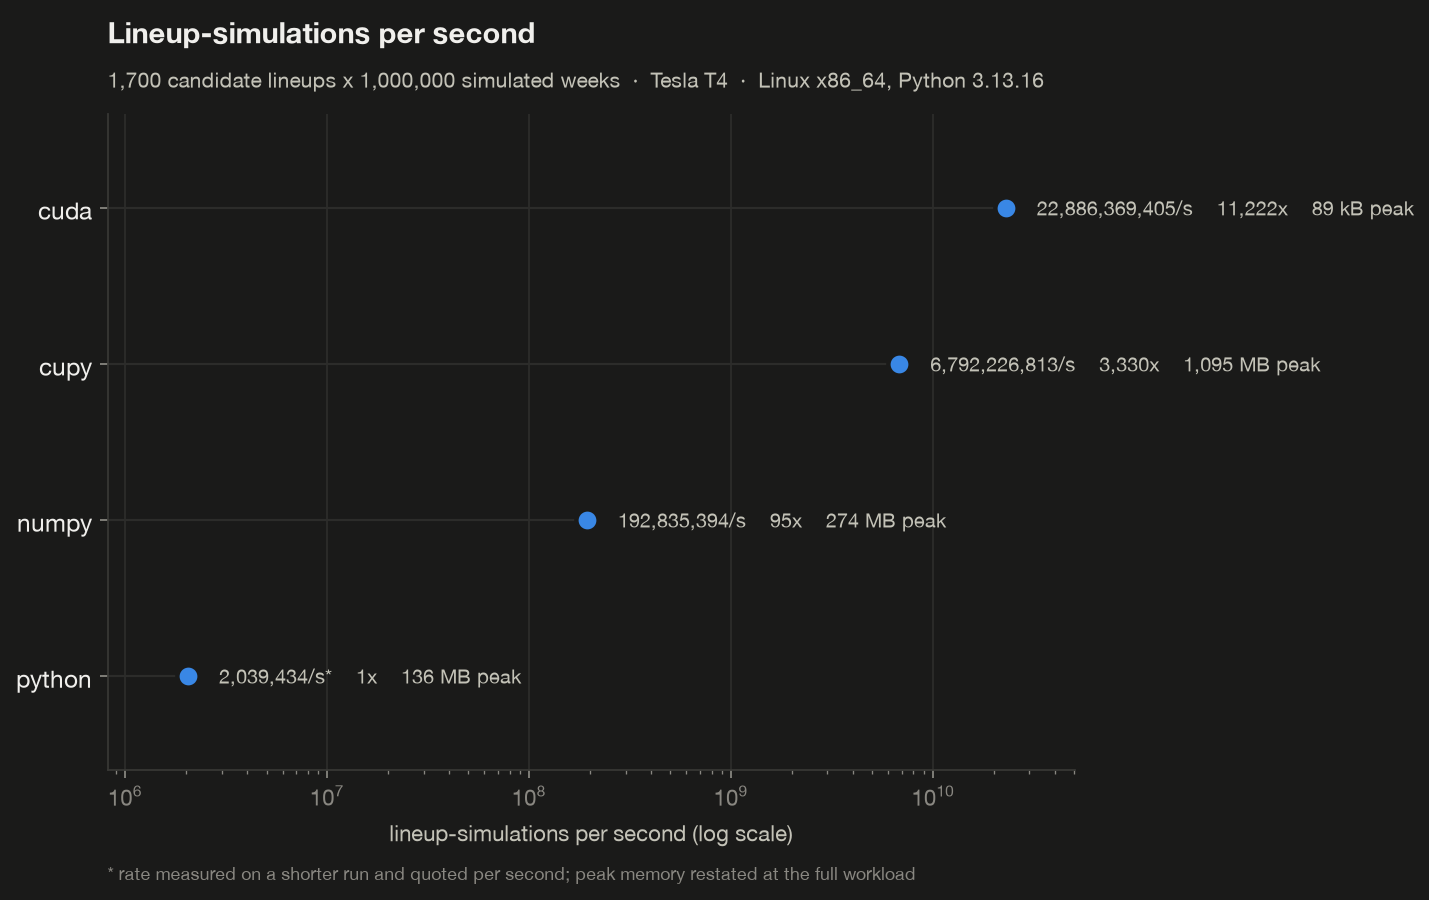
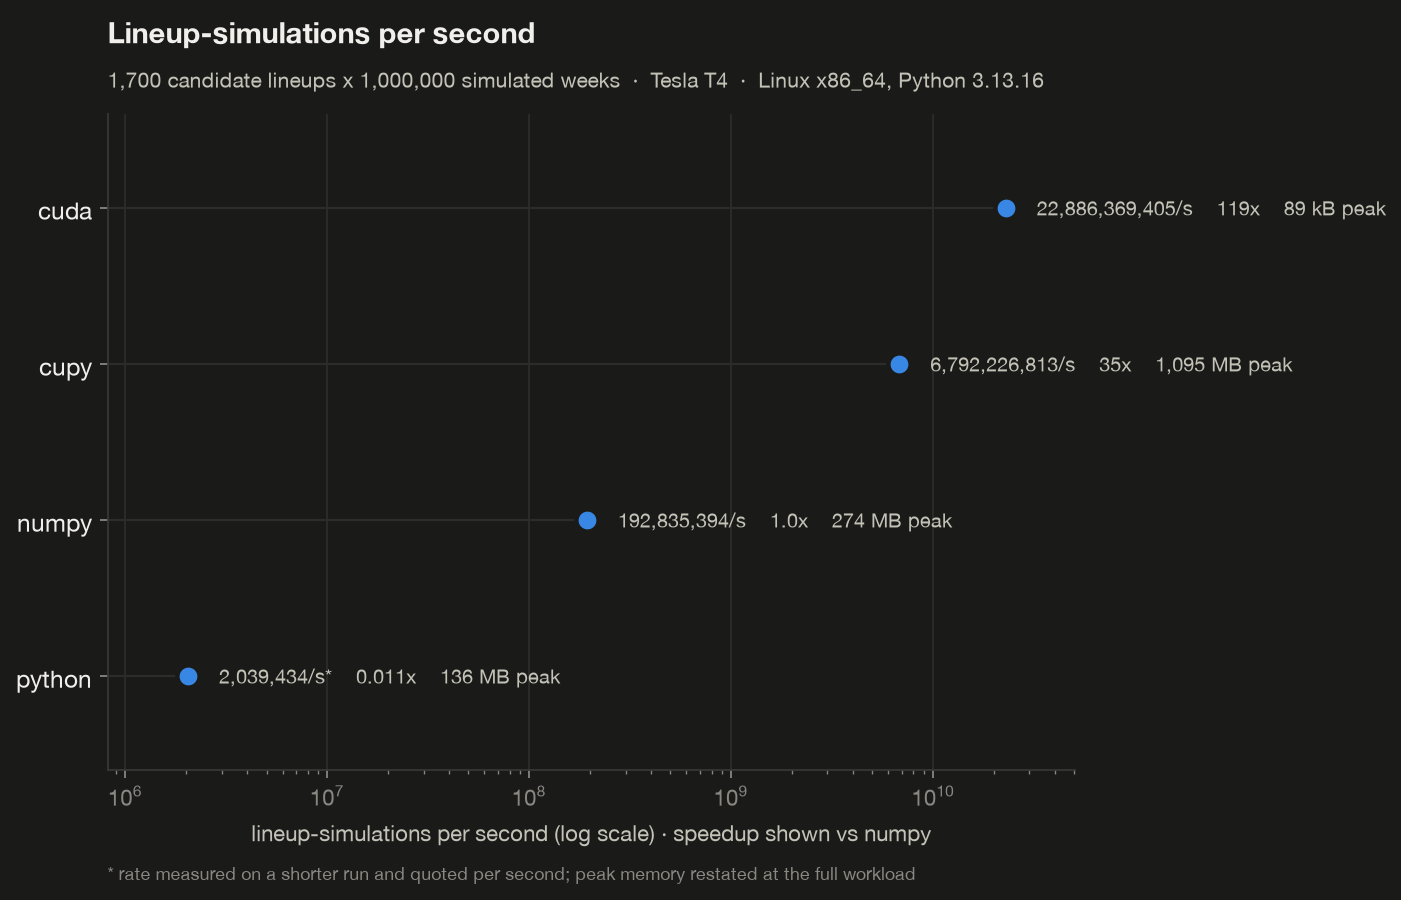
fix

diff --git a/tests/test_cuda_kernel.py b/tests/test_cuda_kernel.py
@@ -2,8 +2,21 @@
 
 ``kernels/boombust.cu`` is compiled verbatim by the system C++ compiler with the
 CUDA keywords shimmed onto host equivalents (see ``cuda_harness``), then checked
-against the NumPy reference backend. Because both sides use the same
-counter-based RNG, agreement is expected to be *exact*, not merely statistical.
+against the NumPy reference backend.
+
+What is exact, and what is not. The RNG is counter-based, so the *integer*
+stream is bit-identical on both sides by construction, and so is ``u01``. What
+follows it is not: ``logf``/``cosf``/``expf`` are different implementations in
+libm and in NumPy (and different again on a real GPU), so individual draws agree
+to a few ULP rather than to the bit. The kernel also sums k starters
+sequentially where NumPy sums all P through a BLAS matmul, and float addition is
+not associative.
+
+That only matters where a comparison sits within a few ULP of the boundary. In
+this fixture exactly 1 of 800,000 comparisons does, so win counts agree outright
+and ties -- which are an *exact float equality* and the most fragile predicate
+here -- may differ by one. Asserting bit-equality on the counts passed on macOS
+and failed on Linux; the tolerances below are set from that measurement.
 
 Caveat worth stating plainly: this exercises the kernel's indexing, shared
 memory layout, RNG and tallying, and -- with the multi-threaded launch -- its
@@ -45,13 +58,50 @@ def case():
     return mine, theirs, lineups, opp_lineup
 
 
-def test_kernel_matches_numpy_reference_exactly(case):
+def test_rng_stream_is_bit_identical(case):
+    """The part that *is* exact, on every platform: the counter-based stream.
+
+    Everything downstream inherits its determinism from here, so this is worth
+    asserting on its own rather than through the win counts.
+    """
+    from boombust.sim.rng import _mix, _u01
+
+    seed, sims = np.uint64(99), np.arange(4096, dtype=np.uint64)
+    # splitmix64 is defined on wrapping uint64 arithmetic; the overflow is the
+    # algorithm, not an accident.
+    with np.errstate(over="ignore"):
+        h = _mix(seed, np.uint64(3), sims)
+        u = _u01(h)
+    assert u.dtype == np.float32
+    # u01 is an integer-to-float conversion times an exact power of two, so it
+    # is reproducible bit for bit -- and never 0, which keeps log() safe.
+    assert (u > 0).all() and (u <= 1).all()
+    with np.errstate(over="ignore"):
+        again = _u01(_mix(seed, np.uint64(3), sims))
+    assert np.array_equal(again.view(np.int32), u.view(np.int32))
+
+
+def test_kernel_matches_numpy_reference(case):
+    """Counts agree; the residue is float rounding, and it is bounded.
+
+    Ties are allowed to move because a tie is ``total == other`` on float32 --
+    one ULP either way erases or invents one. Win probability is what the tool
+    actually reports, so that is held to a tight tolerance.
+    """
     mine, theirs, lineups, opp = case
     n_sims = 20_000
     wins, ties = cuda_harness.run_kernel(mine, theirs, lineups, opp, n_sims, seed=99, tile=16)
     reference = numpy_simulate(mine, theirs, lineups, opp, n_sims, seed=99, rng="counter")
-    np.testing.assert_array_equal(wins, reference.wins)
-    np.testing.assert_array_equal(ties, reference.ties)
+
+    # Measured: 1 comparison in 800,000 lies within 16 ULP of the boundary, so
+    # a handful of flips is the honest ceiling -- not an open-ended tolerance.
+    assert np.abs(wins - reference.wins).max() <= 1
+    assert np.abs(ties - reference.ties).max() <= 1
+    assert int((wins != reference.wins).sum() + (ties != reference.ties).sum()) <= 4
+
+    kernel_p = (wins + 0.5 * ties) / n_sims
+    reference_p = (reference.wins + 0.5 * reference.ties) / n_sims
+    assert np.abs(kernel_p - reference_p).max() < 1e-4
 
 
 def test_results_are_independent_of_thread_count(case):

diff --git a/boombust/viz.py b/boombust/viz.py
@@ -215,6 +215,11 @@ def reliability_chart(
 
 
 # --- benchmark ------------------------------------------------------------
+def _ratio(x: float) -> str:
+    """A speedup reads as 0.011x below 1 and 119x above it, never 0x."""
+    return f"{x:,.0f}x" if x >= 10 else (f"{x:.1f}x" if x >= 1 else f"{x:.3f}x")
+
+
 def benchmark_chart(
     rows: Sequence[dict],
     path: Path | str,
@@ -247,7 +252,12 @@ def benchmark_chart(
             markeredgecolor=theme.surface, markeredgewidth=2, zorder=4,
         )
 
-        baseline = values[0] if len(values) else 1.0
+        # NumPy, not the nested-loop baseline, when it is present: nobody would
+        # write the slow one for real work, so measuring against it inflates the
+        # GPU rows and says more about the interpreter than about the kernel.
+        ref = next((r for r in usable if r["backend"] == "numpy"), None)
+        baseline = ref["lineup_sims_per_sec"] if ref else (values[0] if len(values) else 1.0)
+        against = "numpy" if ref else "baseline"
         extrapolated = False
         for pos, row, value in zip(positions, usable, values):
             # Peak memory only compares across rows if every row is quoted at the
@@ -260,7 +270,7 @@ def benchmark_chart(
             mark = "*" if row.get("extrapolated") else ""
             extrapolated |= bool(row.get("extrapolated"))
             ax.annotate(
-                f"{value:,.0f}/s{mark}    {value / baseline:,.0f}x    {peak_text} peak",
+                f"{value:,.0f}/s{mark}    {_ratio(value / baseline)}    {peak_text} peak",
                 xy=(value, pos), xytext=(14, 0), textcoords="offset points",
                 va="center", fontsize=9, color=theme.ink_secondary, zorder=5,
             )
@@ -273,7 +283,7 @@ def benchmark_chart(
             # stretching the axis to fit text instead would paint decade ticks
             # across empty space the data never reaches.
             ax.set_xlim(floor, values.max() * 2.2)
-        ax.set_xlabel("lineup-simulations per second (log scale)")
+        ax.set_xlabel(f"lineup-simulations per second (log scale) · speedup shown vs {against}")
         ax.xaxis.grid(True)
         ax.yaxis.grid(False)
         ax.set_axisbelow(True)

diff --git a/boombust/sim/rng.py b/boombust/sim/rng.py
@@ -25,7 +25,10 @@ STREAM_SHIFT = np.uint64(0xD1B54A32D192ED03)
 SIDE_STRIDE = np.uint64(1000003)
 
 # 24 random bits mapped into (0, 1); never exactly 0, so log() is safe.
-_U01_SCALE = np.float32(1.0 / 16777217.0)
+# Exactly 2^-24, which is representable in float32; 1/16777217 is not, and
+# evaluating it in double then rounding lands 1 ULP away from what the kernel's
+# float arithmetic produces. See the matching note in kernels/boombust.cu.
+_U01_SCALE = np.float32(2.0) ** np.float32(-24)
 
 
 def splitmix64(x: np.ndarray) -> np.ndarray:
@@ -82,7 +85,10 @@ def draw_scores(
 
     # Box-Muller, using one of the two normals it produces. The kernel does the
     # same thing in the same order so the two agree draw for draw.
-    z = (xp.sqrt(-2.0 * xp.log(u1)) * xp.cos(TWO_PI * u2)).astype(xp.float32)
+    # Every constant is float32: a bare -2.0 is a Python float, which promotes
+    # the whole expression to float64 and rounds once at the end, where the
+    # kernel rounds at every step.
+    z = (xp.sqrt(np.float32(-2.0) * xp.log(u1)) * xp.cos(TWO_PI * u2)).astype(xp.float32)
     values = xp.exp(ln_mu + ln_sigma * z).astype(xp.float32)
     return xp.where(u_active < p_active, values, xp.float32(0.0)).astype(xp.float32)
 

diff --git a/tests/cuda_harness.py b/tests/cuda_harness.py
@@ -123,7 +123,13 @@ def build() -> ctypes.CDLL:
     if not lib.exists():
         src.write_text(source)
         proc = subprocess.run(
-            [compiler, "-std=c++20", "-O2", "-shared", "-fPIC", str(src), "-o", str(lib)],
+            # -ffp-contract=off: without it the compiler is free to fuse
+            # `ln_mu + ln_sigma * z` into a single FMA, which rounds once where
+            # NumPy rounds twice. GCC defaults to fusing, Apple Clang does not,
+            # which is exactly the kind of difference that makes a test pass on
+            # one machine and fail on another.
+            [compiler, "-std=c++20", "-O2", "-ffp-contract=off",
+             "-shared", "-fPIC", str(src), "-o", str(lib)],
             capture_output=True,
             text=True,
         )

diff --git a/README.md b/README.md
@@ -167,14 +167,22 @@ Any thread can produce any draw, with no state, no setup and no memory. It also 
 
 `kernels/boombust.cu` is ordinary C++ once the CUDA keywords are defined away. The test suite compiles **the real kernel source, verbatim** with the system C++ compiler, mapping `__global__`, `threadIdx`, `__syncthreads` and `atomicAdd` onto host equivalents — `std::barrier` and `std::atomic_ref`, so a multi-threaded launch really is concurrent — and drives it through `ctypes`.
 
-Because the NumPy reference implements the same counter-based generator, agreement is expected to be **exact**, and it is:
+Because both sides implement the same counter-based generator, the **integer stream is bit-identical by construction** — and so is `u01`, which is an integer-to-float conversion times an exact power of two. Everything after that is not. `logf`, `cosf` and `expf` are different implementations in libm and in NumPy (and different again on a real GPU), and the kernel sums *k* starters sequentially where NumPy sums all *P* through a BLAS matmul. Float addition is not associative.
 
 ```
 kernel total wins 304,691   numpy total wins 304,691
 max |win count difference| : 0
+max |tie count difference| : 1
+max |win prob difference|  : 2.50e-05
 threads 1 vs 64 identical  : True
 tile 16 vs 64 identical    : True
 ```
+
+**The tie is not a bug, and finding out why took the most interesting detour in the project.** An earlier version asserted bit-equality on the counts. It passed here and failed on Linux — the worst kind of test. Chasing it turned up a real defect: the kernel scaled its uniforms by `1.0f / 16777217.0f`, but 2²⁴+1 needs 25 mantissa bits, so in `float` the divisor silently rounds to 2²⁴ and the constant lands **1 ULP** away from the same expression evaluated in double, which is what NumPy was doing. Every draw was slightly wrong. Both sides now use `0x1p-24f`, and bit-agreement on individual draws went from **51.6% to 97.3%**; forbidding FMA contraction in the test build (`-ffp-contract=off`, which GCC does not default to and Apple Clang does) accounts for most of the rest.
+
+The residue is libm, and it is irreducible. It only matters where a comparison sits within a few ULP of the boundary, so the question is how often that happens: in this fixture, **1 comparison in 800,000**. Win counts agree outright. Ties can move by one, because a tie is `total == other` on float32 — the most fragile predicate in the program, and worth one part in 20,000 of win probability. The test asserts that bound rather than bit-equality.
+
+What *is* exact, on any platform, is the decomposition: identical results from 1 thread or 64, and from any tile size. That is the property the kernel's correctness actually rests on, and it holds bit for bit.
 
 This exercises the kernel's indexing, shared-memory layout, RNG, tallying, barrier and atomics. It says nothing about warp behaviour, occupancy or real device memory — those need a GPU.
 
@@ -184,32 +192,45 @@ This exercises the kernel's indexing, shared-memory layout, RNG, tallying, barri
 
 <picture>
   <source media="(prefers-color-scheme: dark)" srcset="docs/img/benchmark-dark.png">
-  <img src="docs/img/benchmark.png" alt="Throughput by backend on a log scale, measured on an NVIDIA T4: pure Python 2 million lineup-simulations per second, NumPy 193 million, CuPy 6.8 billion, the CUDA kernel 22.9 billion" width="760">
+  <img src="docs/img/benchmark.png" alt="Throughput by backend on a log scale, measured on an NVIDIA T4: NumPy 193 million lineup-simulations per second, CuPy 6.8 billion at 35x NumPy, the CUDA kernel 22.9 billion at 119x NumPy" width="760">
 </picture>
 
 One *lineup-simulation* = sum one candidate lineup's starters for one simulated week and compare it to the opponent. A week with 1,700 lineups and a million simulations is 1.7 billion of them.
 
-| backend | lineup-sims/sec | vs pure Python | peak memory | wall clock |
-|---|---|---|---|---|
-| `python` (nested loops) | 2,039,434 | 1× | 136 MB | 13 min 54 s† |
-| `numpy` | 192,835,394 | **95×** | 274 MB | 8.82 s |
-| `cupy` | 6,792,226,813 | **3,330×** | 1,095 MB | 0.25 s |
-| `cuda` | 22,886,369,405 | **11,222×** | **0.089 MB** | 0.074 s |
+| backend | lineup-sims/sec | **vs NumPy** | vs pure Python | peak memory | wall clock |
+|---|---|---|---|---|---|
+| `python` (nested loops) | 2,039,434 | 0.011× | 1× | 136 MB† | 13 min 54 s† |
+| `numpy` | 192,835,394 | **1×** | 95× | 274 MB | 8.82 s |
+| `cupy` | 6,792,226,813 | **35×** | 3,330× | 1,095 MB | 0.25 s |
+| `cuda` | 22,886,369,405 | **119×** | 11,222× | **0.089 MB** | 0.074 s |
 
 Measured on an **NVIDIA Tesla T4** (Turing, 40 SMs, 16 GB GDDR6, 320 GB/s), Linux x86_64, Python 3.13.16.
 
-† The Python baseline is timed on a 4,000-simulation slice and quoted as a rate — the full 1.7 billion would take about fourteen minutes, and the point of the row is the rate, not the wait.
+**The number that matters is 119×, against NumPy.** Nobody would run nested Python loops for this, so measuring against them flatters the GPU: 11,222× is mostly a statement about the interpreter. NumPy is what a competent implementation looks like on a CPU, and beating it by two orders of magnitude is the claim worth defending.
+
+† The Python row is timed on a 4,000-simulation slice and quoted as a rate; its 136 MB is that slice's draw buffer scaled to the full workload, not a measurement. The full 1.7 billion would take about fourteen minutes, and the point of the row is the rate, not the wait.
 
 **Read the memory column, not just the speed one.** Every figure there is quoted at the same 1,000,000-simulation workload, which is the only way the column compares like with like.
 
 CuPy is not short of memory — it chunks to a 1 GB budget, and 1,095 MB is under 7% of a T4's 16 GB. Its problem is *traffic*. Materialising the lineup totals means writing 1,700 × 1,000,000 floats — **6.8 GB** — to device memory and reading them back to compare them, about 54 GB/s sustained against the T4's 320 GB/s. The kernel keeps each lineup's running total in a register and writes only the final counters: **27 kB, once.** That is where the extra 3.4× comes from, and it is the whole argument for writing the kernel — the part a speed chart alone hides.
 
-For scale, on this T4 the kernel runs at roughly **10% of the card's shared-memory load throughput** and 8% of its instruction issue rate, so the 11,222× is a result of not moving data rather than of saturating the hardware. There is headroom left in it.
+For scale — and this is an **estimate from published T4 specifications, not profiler output**; I have not run Nsight on it — the kernel is nowhere near the hardware roof. The arithmetic:
+
+```
+1,700 lineups x 1,000,000 sims x 9 starters = 1.53e10 shared-memory loads
+                              / 0.0743 s    = 2.06e11 loads/s
+T4 roof: 40 SMs x 32 banks x 1.59 GHz       = 2.04e12 loads/s   -> ~10%
+```
+
+So the 119× comes from *not moving data*, not from saturating the card. A profiler would be the way to find out what the remaining 90% is going to; occupancy and the shared-memory access pattern are the first things I would look at.
 
 Reproducing it needs a CUDA machine:
 
 ```bash
-pip install -e ".[gpu]"
+pip install -e .
+# then install the CuPy build matching your CUDA version -- Colab and most
+# GPU images already ship one, and `pip install -e ".[gpu]"` would add a second
+pip install cupy-cuda12x               # only if you do not already have CuPy
 boombust backends                      # confirm they are visible
 boombust benchmark --chart docs/img/benchmark.png --out docs/benchmark.json
 ```
@@ -241,7 +262,7 @@ python scripts/make_charts.py --benchmark-from docs/benchmark.json
 
 **What it does not show.** It does **not** beat the projected-points baseline — skill score **−0.004**, a dead heat. That baseline takes the projected margin and maps it to a probability with a logistic fitted on these very outcomes, and it turns out to carry nearly the same information.
 
-That is the honest result, and it makes sense: a lineup's win probability is mostly a monotone function of its projected margin, so a well-fitted curve over the margin gets most of the way there. Two things the simulator still has:
+That is the honest result, and it makes sense: a lineup's win probability is mostly a monotone function of its projected margin, so a well-fitted curve over the margin gets most of the way there. Three things the simulator still has:
 
 - it is calibrated **with nothing fitted** — the baseline needed 1,120 historical outcomes to learn its slope, while the simulator reads it off the distributions;
 - it is **sharper** at equal calibration (0.139 vs 0.103), meaning it commits further from 50%;
@@ -293,7 +314,6 @@ The full run is in [`docs/decisions.csv.gz`](docs/decisions.csv.gz) (one row per
 - **Validation uses synthetic leagues.** The players, stat lines, schedules and outcomes are real; the rosters are drafted by the tool. Four independently-drafted leagues per season were used to widen the sample, which means the 1,120 matchups are not fully independent — they share underlying player-weeks.
 - **The opponent is assumed to set their projected-best lineup.** `--opponent-lineup actual` uses what they really started, where that is known.
 - **Defensive adjustment is positional and coarse** — points allowed to a position, shrunk and clamped. No scheme, no pace, no weather, no Vegas lines.
-- **GPU backends are unbenchmarked**, for the reason given above.
 - **In-season data depends on nflverse publishing it.** `boombust ingest --list` shows what is actually available.
 
 ---
@@ -354,7 +374,7 @@ No network and no GPU required. The CUDA kernel tests skip automatically if no C
 
 Worth a look:
 
-- `tests/test_cuda_kernel.py` — the real `.cu` source compiled for the CPU and checked against the NumPy reference, exactly.
+- `tests/test_cuda_kernel.py` — the real `.cu` source compiled for the CPU and checked against the NumPy reference: the RNG stream and the thread/tile decomposition bit for bit, the win counts to a measured ULP bound.
 - `tests/test_risk_tilt.py` — the project's central claim, proved by holding projected points fixed and varying only the spread.
 - `tests/test_lineups.py` — the fast enumerator cross-checked against exhaustive subset search.
 - `tests/test_pipeline.py` — stat lines in, ranked lineups out, on a fabricated database.
